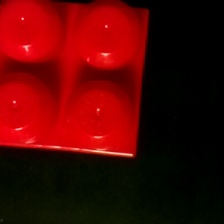
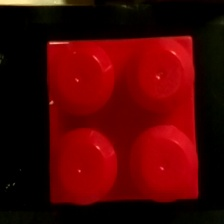
Final code

diff --git a/recycle_code/run.py b/recycle_code/run.py
@@ -8,15 +8,26 @@ import busio
 import adafruit_vl53l0x
 import RPi.GPIO as GPIO
 import sys
+import pigpio
+import atexit
 from PIL import Image
 
 # Font that will be written on the image
 CONV_STEP = 12
 CONV_DIR = 16
-CONV_FREQ = 700
-CONV_DC = 1
+CONV_FREQ = 600
+CONV_DC = 10000
 
 SERVO_1 = 17
+SERVO_2 = 27
+SERVO_3 = 6
+SERVO_4 = 13
+
+def run_belt(pi):
+    pi.hardware_PWM(CONV_STEP, CONV_FREQ, CONV_DC)
+
+def stop_belt(pi):
+    pi.hardware_PWM(CONV_STEP, 0, 0)
 
 def request_from_server(img):
     """
@@ -26,7 +37,7 @@ def request_from_server(img):
     :returns: Returns a dictionary containing label and cofidence.
     """
     # URL or PUBLIC DNS to your server
-    URL = "http://ec2-54-203-6-178.us-west-2.compute.amazonaws.com:8080/predict"
+    URL = "http://ec2-34-208-201-143.us-west-2.compute.amazonaws.com:8080/predict"
 
     # File name so that it can be temporarily stored.
     temp_image_name = 'temp.jpg'
@@ -50,11 +61,15 @@ def request_from_server(img):
 
     return prediction
 
+def cleanup():
+    stop_belt(pi)
+
 def main():
     # 1. Start running the camera.
     # TODO: Initialize face detector
     #face_cascade = cv2.CascadeClassifier(CASCADE_PATH)
     # Initialize camera and update parameters
+    global pi
     camera = PiCamera()
     width = 640
     height = 480
@@ -71,22 +86,49 @@ def main():
     sensor = adafruit_vl53l0x.VL53L0X(i2c)
 
     # Setup Conveyor Stepper
-    GPIO.setup(CONV_STEP, GPIO.OUT)
-    GPIO.setup(CONV_DIR, GPIO.OUT)
+    #GPIO.setup(CONV_STEP, GPIO.OUT)
+    #GPIO.setup(CONV_DIR, GPIO.OUT)
 
-    GPIO.output(CONV_DIR, 0)
+    #GPIO.output(CONV_DIR, 0)
 
-    p = GPIO.PWM(CONV_STEP, CONV_FREQ)
+    #p = GPIO.PWM(CONV_STEP, CONV_FREQ)
+
+    pi = pigpio.pi()
 
     # Setup Servos
     GPIO.setup(SERVO_1, GPIO.OUT)
     p_serv_1 = GPIO.PWM(SERVO_1, 30)
     p_serv_1.start(0)
-    p_serv_1.ChangeDutyCycle(3)
+    p_serv_1.ChangeDutyCycle(3.4)
+    time.sleep(1)
+    #p_serv_1.stop()
 
+
+    GPIO.setup(SERVO_2, GPIO.OUT)
+    p_serv_2 = GPIO.PWM(SERVO_2, 30)
+    p_serv_2.start(0)
+    p_serv_2.ChangeDutyCycle(7)
+    time.sleep(1)
+
+    GPIO.setup(SERVO_3, GPIO.OUT)
+    p_serv_3 = GPIO.PWM(SERVO_3, 30)
+    p_serv_3.start(0)
+    p_serv_3.ChangeDutyCycle(1.5)
+    time.sleep(1)
+    
+    GPIO.setup(SERVO_4, GPIO.OUT)
+    p_serv_4 = GPIO.PWM(SERVO_4, 30)
+    p_serv_4.start(0)
+    p_serv_4.ChangeDutyCycle(4.5)
+    time.sleep(1)
+
+    atexit.register(cleanup)
+
+    #p_serv_2.stop()
     #make motor spin
-    p.start(0)
-    p.ChangeDutyCycle(CONV_DC)
+    #p.start(0)
+    #p.ChangeDutyCycle(CONV_DC)
+    run_belt(pi)
 
     while True:
         mm_range = sensor.range
@@ -95,7 +137,8 @@ def main():
         if mm_range < 110:
             # CLASSIFY OBJECT
             print("Object DETECTED!")
-            p.stop()
+            #p.stop()
+            stop_belt(pi)
 
     # 2. Detect a face, display it, and get confirmation from user.
    # for frame in camera.capture_continuous(
@@ -115,20 +158,74 @@ def main():
             prediction = request_from_server(pil_image)
             confidence = prediction["confidence"]
             label = prediction["label"]
+            #label = 0
+            #confidence = 1
             print('LABEL is: {}, confidence = {}'.format(label, confidence))
 
             result_to_display = label
 
             pil_image.show(command='fim')
 
-            p.start(0)
-            p.ChangeDutyCycle(CONV_DC)
+            #p.start(0)
+            #p.ChangeDutyCycle(CONV_DC)
+            #p_serv_1.start(0)
+            if int(label)==0:
+                p_serv_1.start(0)
+                #time.sleep(0.5)
+                p_serv_1.ChangeDutyCycle(5.5)
+                #time.sleep(0.5)
+                #p_serv_1.stop()
+                #p_serv_1.start(0)
 
-            while True:
-                time.sleep(0.1)
+                #p.start(0)
+                #p.ChangeDutyCycle(CONV_DC)
+                run_belt(pi)
+                time.sleep(5.5)
+                p_serv_1.ChangeDutyCycle(3)
+            elif int(label)==1:
+                time.sleep(0.5)
+                p_serv_2.ChangeDutyCycle(5.2)
+                time.sleep(0.5)
+                #p_serv_1.stop()
+                #p_serv_1.start(0)
+
+                #p.start(0)
+                #p.ChangeDutyCycle(CONV_DC)
+                run_belt(pi)
+                time.sleep(6)
+                p_serv_2.ChangeDutyCycle(7)
+
+            elif int(label)==2:
+                time.sleep(0.5)
+                p_serv_3.ChangeDutyCycle(3.5)
+                time.sleep(0.5)
+                #p_serv_1.stop()
+                #p_serv_1.start(0)
+
+                #p.start(0)
+                #p.ChangeDutyCycle(CONV_DC)
+                run_belt(pi)
+                time.sleep(7)
+                p_serv_3.ChangeDutyCycle(1.5)
+            elif int(label)==3:
+                time.sleep(0.5)
+                p_serv_4.ChangeDutyCycle(2.5)
+                time.sleep(0.5)
+                #p_serv_1.stop()
+                #p_serv_1.start(0)
+
+                #p.start(0)
+                #p.ChangeDutyCycle(CONV_DC)
+                run_belt(pi)
+                time.sleep(7.5)
+                p_serv_4.ChangeDutyCycle(4.5)
+            
+            #while True:
+            
+            #time.sleep(5)
 
 
-            return
+            #return
         
         # clear the stream in preparation for the next frame
         rawCapture.truncate(0)

diff --git a/client.py b/client.py
@@ -81,7 +81,7 @@ def main():
         image = frame.array
         key = cv2.waitKey(1) & 0xFF
         if key == ord("a"): 
-            image_crop = image[80:400, 145:465]
+            image_crop = image[130:420, 145:465]
             image_crop = cv2.resize(image_crop,(224,224))
             
             print('Let\'s see what lego this is...')
